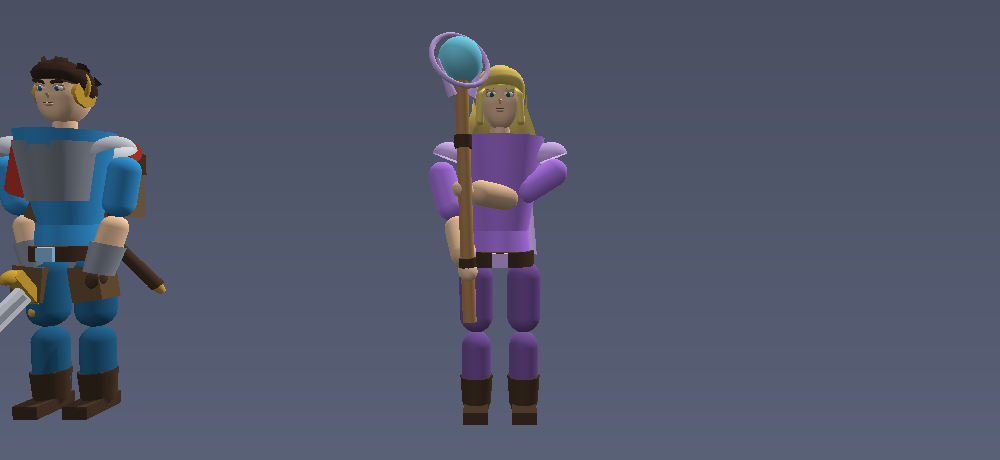
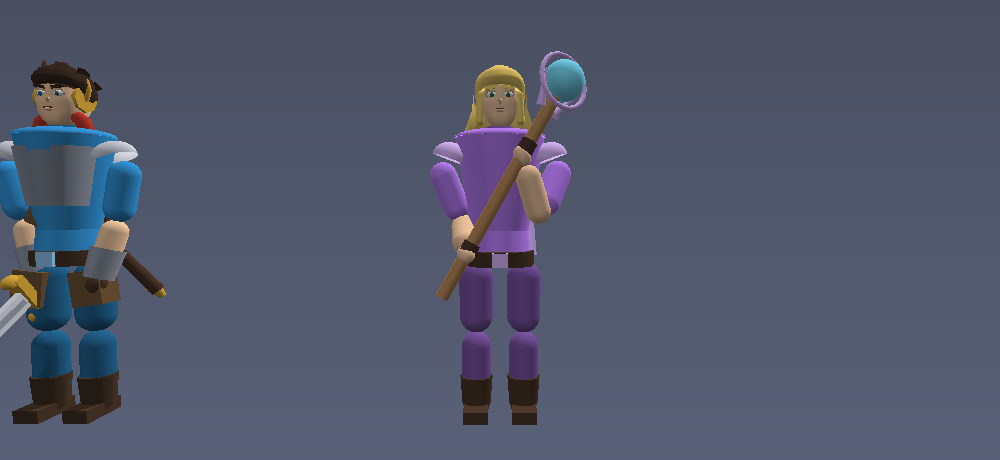
Посох по диагонали, рюкзак и плечевой пояс Рюдо
Три замечания по силуэтам.

1. Посох Елены стоял почти вертикально перед корпусом, и левой руке
   приходилось тянуться через грудь на 92 % полного растяжения. Теперь он
   лежит по диагонали, как ремень безопасности: низ у правого бедра, орб
   над левым плечом, вылет левой руки 45 %. Позы каста и заноса пришлось
   пересчитать: значения STAFF_POSES — добавки к стойке покоя, и после
   смены стойки прежние дельты рвали хват (промах 0.6-0.9).

2. Рюкзак был виден спереди. Ray-cast показал, что дело не в габаритах
   (по ним он «за спиной»), а в том, что короб выступал назад на 0.57 при
   глубине корпуса 0.27 и торчал сбоку от силуэта. Мешок прижат к спине и
   сужен; со спины он по-прежнему читается.

3. Верх корпуса-конуса был открыт: у шеи торчал плоский диск, ключицы
   выглядели срезанной трубой. Добавлен плечевой скат (полусфера ровно от
   верхнего среза — ниже остаётся диск, вровень идёт мерцание). Шарф и
   воротник подняты, иначе тонули под скатом.

Мутационная проверка: 7 поломок, каждая роняет тесты. Проверка «рюкзак не
выше плеч» оказалась неактивной (мутация проходила) — заменена ray-cast
тестом, который и нашёл настоящую причину.

diff --git a/src/render/models.js b/src/render/models.js
@@ -93,6 +93,17 @@ export function createHumanoid(scene, { id, color = '#3498db', weapon = 'sword',
     chest.scaling.z = 0.72; // тело не бочка, а слегка приплюснутое
     chest.material = cloth;
 
+    // Плечевой пояс. Без него верх корпуса-конуса оставался открытым диском:
+    // у шеи торчала плоская «крышка», и ключицы выглядели как срезанная труба.
+    // Полусфера закрывает срез и даёт покатый скат от шеи к плечам.
+    const yoke = track(MeshBuilder.CreateSphere(`${id}_yoke`, {
+        diameterX: 0.80, diameterY: 0.16, diameterZ: 0.58,
+        slice: 0.5, segments: 14,
+    }, scene));
+    yoke.parent = torso;
+    yoke.position.y = 1.07;
+    yoke.material = cloth;
+
     // Наплечники разбивают силуэт и делают героя «экипированным».
     for (const side of [-1, 1]) {
         const pad = track(MeshBuilder.CreateSphere(`${id}_pauldron${side}`, {
@@ -169,50 +180,57 @@ export function createHumanoid(scene, { id, color = '#3498db', weapon = 'sword',
             diameter: 0.4, thickness: 0.12, tessellation: 12,
         }, scene));
         scarf.parent = torso;
-        scarf.position.set(0, 0.9, 0.02);
+        scarf.position.set(0, 1.12, 0.02);
         scarf.rotation.x = Math.PI / 2;
         scarf.scaling.z = 0.8;
         scarf.material = scarfMat;
 
         // Свисающий конец шарфа.
+        // Конец шарфа свисает вдоль плеча и уходит НАЗАД, а не лежит красной
+        // плахой на груди: прежний торчал за габарит корпуса (x до 0.45 при
+        // ширине тела 0.39) и читался как посторонний предмет спереди.
         const scarfTail = track(MeshBuilder.CreateBox(`${id}_scarfTail`, {
-            width: 0.17, height: 0.46, depth: 0.07,
+            width: 0.13, height: 0.38, depth: 0.06,
         }, scene));
         scarfTail.parent = torso;
-        scarfTail.position.set(0.3, 0.74, 0.1);
-        scarfTail.rotation.set(0.1, 0, 0.3);
+        scarfTail.position.set(0.2, 0.92, -0.14);
+        scarfTail.rotation.set(-0.12, 0, 0.24);
         scarfTail.material = scarfMat;
 
         // Заплечный мешок странствующего Geohound.
+        // Мешок сидит НИЖЕ линии плеч и уже корпуса: раньше он вместе со
+        // скаткой и клапаном выглядывал из-за плеч на ракурсе 3/4, и это
+        // читалось как рюкзак, надетый задом наперёд.
         const pack = track(MeshBuilder.CreateBox(`${id}_pack`, {
-            width: 0.5, height: 0.56, depth: 0.3,
+            width: 0.34, height: 0.44, depth: 0.14,
         }, scene));
         pack.parent = torso;
-        pack.position.set(0, 0.6, -0.42);
+        pack.position.set(0, 0.56, -0.27);
         pack.material = packMat;
 
         const packFlap = track(MeshBuilder.CreateBox(`${id}_packFlap`, {
-            width: 0.52, height: 0.2, depth: 0.32,
+            width: 0.36, height: 0.14, depth: 0.16,
         }, scene));
         packFlap.parent = torso;
-        packFlap.position.set(0, 0.84, -0.43);
+        packFlap.position.set(0, 0.72, -0.27);
         packFlap.material = leather;
 
-        // Скатка сверху и ремни крепления.
+        // Скатка лежит на клапане, а не над плечами.
         const bedroll = track(MeshBuilder.CreateCylinder(`${id}_bedroll`, {
-            height: 0.54, diameter: 0.18, tessellation: 10,
+            height: 0.36, diameter: 0.12, tessellation: 10,
         }, scene));
         bedroll.parent = torso;
-        bedroll.position.set(0, 0.95, -0.44);
+        bedroll.position.set(0, 0.8, -0.27);
         bedroll.rotation.z = Math.PI / 2;
         bedroll.material = scarfMat;
 
+        // Лямки идут по спине вплотную к корпусу, а не по бокам.
         for (const side of [-1, 1]) {
             const packStrap = track(MeshBuilder.CreateBox(`${id}_packStrap${side}`, {
-                width: 0.09, height: 0.66, depth: 0.06,
+                width: 0.08, height: 0.6, depth: 0.05,
             }, scene));
             packStrap.parent = torso;
-            packStrap.position.set(0.22 * side, 0.66, -0.26);
+            packStrap.position.set(0.15 * side, 0.6, -0.22);
             packStrap.rotation.x = -0.12;
             packStrap.material = leather;
         }
@@ -291,7 +309,7 @@ export function createHumanoid(scene, { id, color = '#3498db', weapon = 'sword',
         height: 0.09, diameterTop: 0.24, diameterBottom: 0.33, tessellation: 12,
     }, scene));
     collar.parent = neck;
-    collar.position.y = -0.075;
+    collar.position.y = 0.1;
     collar.scaling.z = 0.78;
     collar.material = clothDark;
 
@@ -675,18 +693,22 @@ export function createHumanoid(scene, { id, color = '#3498db', weapon = 'sword',
         weaponPivot.rotation.y = 1.5;
         weaponPivot.rotation.z = 0.8;
     } else {
-        // Посох держат ДВУМЯ руками на согнутых локтях: правая у живота,
-        // левая выше на древке, посох идёт наискось через грудь, орб над
-        // плечом. Раньше он висел в одной опущенной руке как трость.
-        // Углы подобраны численно: сперва правая кисть и ориентация древка,
-        // затем левая кисть подводится к точке хвата (промах 0.02).
-        shoulderR.rotation.x = -0.29;
-        shoulderR.rotation.z = -0.28;
-        elbowR.rotation.x = -0.50;
-        weaponPivot.rotation.set(0.80, -0.60, -0.20);
+        // Посох держат ДВУМЯ руками ПО ДИАГОНАЛИ, как ремень безопасности:
+        // низ древка у правого бедра, орб над левым плечом. Прежняя поза
+        // ставила посох почти вертикально перед корпусом, и левой руке
+        // приходилось тянуться через грудь на 92 % полного растяжения —
+        // неестественно и неудобно. Теперь вылет левой руки 45 %.
+        //
+        // Углы подобраны численно в два прохода: сперва правая кисть и
+        // наклон древка, затем левая кисть подводится к древку с жёстким
+        // штрафом за вылет за пределы комфортной зоны (промах хвата 0.003).
+        shoulderR.rotation.x = 0.15;
+        shoulderR.rotation.z = -0.37;
+        elbowR.rotation.x = -1.24;
+        weaponPivot.rotation.set(1.15, -1.20, -0.20);
 
-        shoulderL.rotation.set(-0.75, 0.30, 0.80);
-        elbowL.rotation.x = -0.80;
+        shoulderL.rotation.set(-0.63, 0.90, -0.16);
+        elbowL.rotation.x = -2.20;
     }
 
     return {

diff --git a/src/render/Animator.js b/src/render/Animator.js
@@ -20,7 +20,13 @@ const SWING_SECONDS = 0.42;
 // небольшие. Замер: без сгиба локтя клинок висит на y=-0.69, со сгибом 0.02.
 /**
  * Позы двуручного посоха, подобранные численным перебором при условии, что
- * ОБЕ кисти остаются на древке (промах хвата < 0.09). Значения — добавка к
+ * ОБЕ кисти остаются на древке (промах хвата < 0.09), а левая рука не
+ * вытягивается за пределы комфортной зоны. Исключение — каст «на себя»:
+ * поднятые над головой руки естественно распрямляются, и там лимит снят.
+ *
+ * Значения — ДОБАВКА к позе покоя, поэтому при смене стойки их приходится
+ * пересчитывать: диагональная стойка «ремень безопасности» сделала прежние
+ * дельты негодными, хват рвался на 0.6-0.9. Значения — добавка к
  * позе покоя. Разносить их по формулам вручную нельзя: суставы связаны, и
  * правка одного угла заваливает посох набок.
  *
@@ -35,16 +41,16 @@ const SWING_SECONDS = 0.42;
  */
 const STAFF_POSES = {
     castTarget: {
-        shoulderRX: 0.60, shoulderRZ: 0.00, elbowR: 0.60, wrist: -0.20,
-        shoulderLX: 0.20, shoulderLZ: 0.00, elbowL: 0.20,
+        shoulderRX: 0.40, shoulderRZ: -0.30, elbowR: 0.25, wrist: 0.40,
+        shoulderLX: 0.65, shoulderLZ: 0.00, elbowL: 0.56,
     },
     castSelf: {
-        shoulderRX: -1.05, shoulderRZ: -0.50, elbowR: -0.20, wrist: 1.45,
-        shoulderLX: -1.50, shoulderLZ: -0.80, elbowL: 0.60,
+        shoulderRX: -1.34, shoulderRZ: -0.25, elbowR: 0.00, wrist: 1.45,
+        shoulderLX: -1.12, shoulderLZ: 0.00, elbowL: 1.60,
     },
     windup: {
-        shoulderRX: -0.95, shoulderRZ: -0.50, elbowR: -0.20, wrist: 1.10,
-        shoulderLX: -1.40, shoulderLZ: -0.80, elbowL: 0.60,
+        shoulderRX: -0.40, shoulderRZ: -0.50, elbowR: -0.30, wrist: 0.66,
+        shoulderLX: -0.60, shoulderLZ: 0.00, elbowL: 0.93,
     },
 };
 
